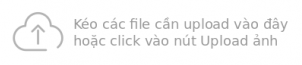
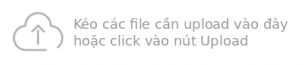
Update style and logic

Changed region(s): [[0.8344, 0.5231, 0.9238, 0.7077]]

diff --git a/src/Tnqsoft/MaterialBundle/Resources/public/js/tnqsoftcore/file-manager.js b/src/Tnqsoft/MaterialBundle/Resources/public/js/tnqsoftcore/file-manager.js
@@ -68,20 +68,13 @@ FileManage.prototype.bindAction = function() {
 
 FileManage.prototype.cropFile = function(item) {
     var _parent = this;
-    let options = {
-        title: 'Cắt tỉa ảnh',
-        imgDefault: '/bundles/tnqsoftmaterial/img/no-picture.png',
-        btnOkText: 'Cắt ảnh',
-        btnCancelText: 'Lưu luôn ảnh',
-        aspectRatio: null
-    };
     let info = JSON.parse(item.data('context'));
     let apiCrop = Routing.generate('api_file_crop', {
         type: item.data('type'),
         path: item.data('path')
         // file: item.data('file')
     });
-    let cropFile = new CropFile(apiCrop, options);
+    let cropFile = new CropFile(apiCrop);
     cropFile.setOnCropSuccess(function(_this, file){
         $('.file-item-display', item).attr('src', file.url + '?rnd=' + getUnixTimestamp());
         $('.file-item-name', item).html(file.name);
@@ -90,7 +83,8 @@ FileManage.prototype.cropFile = function(item) {
         _parent.showInfo(item);
     });
     cropFile.setOnCropError(function(_this, error){
-        console.log(error);
+        let popup = new B3Popup();
+        popup.alertBox('error', error);
     });
     cropFile.showCropModal(info.url, info.width, info.height);
 };
@@ -106,6 +100,7 @@ FileManage.prototype.loadList = function() {
     let _this = this;
     $('.list-file', this.fileManagerBox).empty();
     $('.file-item-info', this.fileManagerBox).hide();
+    $('.icon-loading', this.fileManagerBox).show();
     let listApi = Routing.generate('api_file_list', {
         type: this.type,
         path: this.path,
@@ -115,6 +110,7 @@ FileManage.prototype.loadList = function() {
         .done(function(list) {
             _this.listFiles = list;
             _this.renderListFiles();
+            $('.icon-loading', _this.fileManagerBox).hide();    
         })
         .fail(function(error) {
             let popup = new B3Popup();
@@ -138,7 +134,12 @@ FileManage.prototype.showInfo = function(item) {
     } else {
         isWritable = '<i class="fa fa-times text-danger"></i>';
     }
-    $('.info-display', infoBox).attr('src', info.url + '?rnd=' + getUnixTimestamp());
+    if (info.is_image === true) {
+        $('.info-display', infoBox).attr('src', info.url + '?rnd=' + getUnixTimestamp());
+    } else {
+        $('.info-display', infoBox).attr('src', '/bundles/tnqsoftmaterial/img/file.png');
+    }
+
     $('.info-name span', infoBox).html(info.name);
     $('.info-extension span', infoBox).html(info.extension);
     $('.info-mime span', infoBox).html(info.mime);
@@ -174,7 +175,11 @@ FileManage.prototype.renderListFiles = function(list) {
         for (let i = 0; i < this.listFiles.length; i++) {
             let file = this.listFiles[i];
             let item = $(this.getItemPhotoHtml());
-            $('.file-item-display', item).attr('src', file.url + '?rnd=' + getUnixTimestamp());
+            if (file.is_image === true) {
+                $('.file-item-display', item).attr('src', file.url + '?rnd=' + getUnixTimestamp());
+            } else {
+                $('.btn-edit', item).remove();
+            }
             $('.file-item-name', item).html(file.name);
             item.data('type', this.type);
             item.data('path', this.path);
@@ -202,13 +207,13 @@ FileManage.prototype.renderMain = function() {
     html += '    <div class="modal-content animated flipInY">';
     html += '        <div class="modal-header">';
     html += '            <button type="button" class="close" data-dismiss="modal"><span aria-hidden="true">&times;</span><span class="sr-only">Bỏ qua</span></button>';
-    html += '            <h4 class="modal-title">Quản lý thư viện ảnh</h4>';
+    html += '            <h4 class="modal-title">Quản lý file <i class="fa fa-circle-o-notch fa-spin fa-fw icon-loading"></i></h4>';
     html += '        </div>';
     html += '        <div class="modal-body form-group-box">';
     html += '            <div class="row">';
     html += '               <div class="col-md-10"><div class="row list-file"></div></div>';
     html += '               <div class="col-md-2"><div class="file-item-info">';
-    html += '                   <p><img class="img-responsive1 info-display" src="\/bundles\/tnqsoftmaterial\/img\/no-picture.png" height="120"></p>';
+    html += '                   <p><img class="img-responsive1 info-display" src="\/bundles\/tnqsoftmaterial\/img\/file.png"></p>';
     html += '                   <p class="info-name"><strong>Tên</strong>: <span></span></p>';
     html += '                   <p class="info-extension"><strong>Phần mở rộng</strong>: <span></span></p>';
     html += '                   <p class="info-mime"><strong>Mime</strong>: <span></span></p>';
@@ -225,12 +230,12 @@ FileManage.prototype.renderMain = function() {
     html += '            <div class="row">';
     html += '                <div class="col-xs-6 text-left">';
     html += '                    <button type="button" class="btn btn-success btn-upload">';
-    html += '                        <i class="fa fa-cloud-upload"></i> Upload ảnh';
-    html += '                    </button> <span class="text-muted"> <i class="fa fa-mouse-pointer"></i> Hoặc là kéo thả nhiều file vào danh sách ảnh</span>';
+    html += '                        <i class="fa fa-cloud-upload"></i> Upload file';
+    html += '                    </button> <span class="text-muted"> <i class="fa fa-mouse-pointer"></i> Hoặc là kéo thả nhiều file vào danh sách file</span>';
     html += '                </div>';
     html += '                <div class="col-xs-6">';
     html += '                    <button type="button" class="btn btn-primary btn-ok">';
-    html += '                        <i class="fa fa-check"></i> Chọn ảnh';
+    html += '                        <i class="fa fa-check"></i> Chọn file';
     html += '                    </button>';
     html += '                </div>';
     html += '            </div>';
@@ -251,7 +256,7 @@ FileManage.prototype.getItemPhotoHtml = function() {
     let html = '';
     html += '<div class="col-xs-6 col-sm-3 col-md-4 col-lg-2 file-item">';
     html += '    <div class="thumbnail">';
-    html += '        <img class="img-responsive center-block file-item-display" src="/bundles/tnqsoftmaterial/img/no-picture.png" alt="Photo">';
+    html += '        <img class="img-responsive center-block file-item-display" src="/bundles/tnqsoftmaterial/img/file.png" alt="Photo">';
     html += '        <div class="caption text-center">';
     html += '            <span class="file-item-name">Đang upload file...</span>';
     html += '            <a href="#" class="btn-delete"><i class="fa fa-trash fa-lg"></i></a>';

diff --git a/src/Tnqsoft/MaterialBundle/Resources/public/js/tnqsoftcore/crop-file.js b/src/Tnqsoft/MaterialBundle/Resources/public/js/tnqsoftcore/crop-file.js
@@ -7,14 +7,14 @@ var CropFile = function(api, options) {
     this.api = api;
     this.onCropSuccess = $.noop;
     this.onCropError = $.noop;
-    // {
-    //     title: 'Cắt tỉa ảnh',
-    //     imgDefault: 'http://example.com/no-picture.jpg',
-    //     btnOkText: 'Cắt ảnh và hoàn tất',
-    //     btnCancelText: 'Bỏ qua',
-    //     aspectRatio: 1
-    // }
-    this.options = options;
+    let defaultsOption = {
+        title: 'Cắt tỉa ảnh',
+        imgDefault: '/bundles/tnqsoftmaterial/img/no-picture.png',
+        btnOkText: 'Cắt ảnh',
+        btnCancelText: 'Bỏ qua',
+        aspectRatio: null
+    };
+    this.options = $.extend(defaultsOption, options);
     this.cropImgApi = null;
 
     this.init();
@@ -29,12 +29,10 @@ CropFile.prototype.init = function() {
     html += '<div class="modal-dialog modal-small">';
     html += '    <div class="modal-content animated flipInY">';
     html += '        <div class="modal-header">';
-    html += '            <button type="button" class="close" data-dismiss="modal"><span aria-hidden="true">&times;</span><span class="sr-only">Bỏ qua</span></button>';
+    html += '            <button type="button" class="close" data-dismiss="modal"><span aria-hidden="true">&times;</span><span class="sr-only">' + this.options.btnCancelText + '</span></button>';
     html += '            <h4 class="modal-title">' + this.options.title + '</h4>';
     html += '        </div>';
-    html += '        <div class="modal-body center">';
-    // html += '            <img src="' + this.options.imgDefault + '" id="cropImg" alt="Jcrop Image" width="570"/>';
-    html += '        </div>';
+    html += '        <div class="modal-body center"></div>';
     html += '        <div class="modal-footer">';
     html += '           <div class="row">';
     html += '               <div class="col-xs-6 text-left">';
@@ -49,6 +47,9 @@ CropFile.prototype.init = function() {
     html += '               <div class="col-xs-6">';
     html += '                   <button type="button" class="btn btn-success btn-confirm-crop">';
     html += '                       <i class="fa fa-check"></i>' + this.options.btnOkText;
+    html += '                   </button>';
+    html += '                   <button type="button" class="btn btn-default btn-cancel" data-dismiss="modal">';
+    html += '                       <i class="fa fa-times"></i>' + this.options.btnCancelText;
     html += '                   </button>';
     html += '               </div>';
     html += '           </div>';
@@ -134,7 +135,6 @@ CropFile.prototype.changeRatio = function(ratioType) {
         ratio = null;
         break;
     }
-    console.log(this.cropImgApi);
     this.cropImgApi.setOptions({
       aspectRatio: ratio
     });

diff --git a/src/Tnqsoft/MaterialBundle/Resources/public/js/tnqsoftcore/file-manager-upload.js b/src/Tnqsoft/MaterialBundle/Resources/public/js/tnqsoftcore/file-manager-upload.js
@@ -22,11 +22,9 @@ FileManageUpload.prototype.parent = UploadFile.prototype;
 FileManageUpload.prototype.onUploadAdd = function(_this, e, data) {
     for (var i = 0; i < data.files.length; i++) {
         _this.btnUpload.prop('disabled', true);
-        let uuid = md5(data.files[i].name + '' + data.files[i].lastModified + '' + data.files[i].size);//generateUUID();
-        console.log(uuid);
+        let uuid = md5(data.files[i].name + '' + data.files[i].lastModified + '' + data.files[i].size);
         let item = $(_this.itemHtml);
         item.data('uuid', uuid);
-        //_this.currentItem = uuid;
         item.addClass('state-uploading');
         $('.list-file', _this.fileManagerBox).append(item);
     }
@@ -63,7 +61,11 @@ FileManageUpload.prototype.onUploadDone = function(_this, e, data) {
         let uuid = md5(data.files[i].name + '' + data.files[i].lastModified + '' + data.files[i].size);//generateUUID();
         let file = data.jqXHR.responseJSON;
         let currentItem = $('.file-item', _this.fileManagerBox).filter(function(){ return $(this).data("uuid") == uuid});
-        $('.file-item-display', currentItem).attr('src', file.url);
+        if (file.is_image === true) {
+            $('.file-item-display', currentItem).attr('src', file.url);
+        } else {
+            $('.btn-edit', currentItem).remove();
+        }
         $('.file-item-name', currentItem).html(file.name);
         currentItem.data('uuid', generateUUID());
         currentItem.data('type', _this.fileManagerBox.data('type'));

diff --git a/src/Tnqsoft/MaterialBundle/Resources/public/plugins/summernote-ext-filemanager.js b/src/Tnqsoft/MaterialBundle/Resources/public/plugins/summernote-ext-filemanager.js
@@ -40,7 +40,15 @@
             //       var fileManager = new FileManage($('#fileManagerType').val(), $('#fileManagerPath').val());
             //   }
               fileManager.okCallback = function(file) {
-                  context.invoke('editor.insertImage', file.url, file.name);
+                  if (file.is_image === true) {
+                    context.invoke('editor.insertImage', file.url, file.name);
+                  } else {
+                    context.invoke('createLink', {
+                        text: file.name,
+                        url: window.location.origin + file.url,
+                        isNewWindow: true
+                    });
+                  }
               };
               fileManager.showBox();
           }

diff --git a/src/Tnqsoft/MaterialBundle/Resources/public/css/global.css b/src/Tnqsoft/MaterialBundle/Resources/public/css/global.css
@@ -88,7 +88,10 @@
     display: none;
     overflow: hidden;
 }
-
+#modalFileManager .file-item-info img {
+    width: 100%;
+    max-height: 120px;
+}
 .jcrop-keymgr {
     opacity: 0;
 }

diff --git a/src/Tnqsoft/MaterialBundle/Resources/public/js/tnqsoftcore/global.js b/src/Tnqsoft/MaterialBundle/Resources/public/js/tnqsoftcore/global.js
@@ -1,3 +1,5 @@
+jQuery.migrateMute = false;
+
 /**
  * Created by nntuan on 9/11/2016.
  */

diff --git a/src/Tnqsoft/MaterialBundle/Service/Model/FileItem.php b/src/Tnqsoft/MaterialBundle/Service/Model/FileItem.php
@@ -58,6 +58,7 @@ class FileItem
      * @var boolean
      *
      * @Type("boolean")
+     * @SerializedName("is_readable")
      * @Expose
      */
     private $isReadable;
@@ -66,6 +67,16 @@ class FileItem
      * @var boolean
      *
      * @Type("boolean")
+     * @SerializedName("is_image")
+     * @Expose
+     */
+    private $isImage;
+
+    /**
+     * @var boolean
+     *
+     * @Type("boolean")
+     * @SerializedName("is_writable")
      * @Expose
      */
     private $isWritable;
@@ -134,7 +145,8 @@ class FileItem
         $this->baseDir = $pathParts['dirname'];
         $this->extension = $pathParts['extension'];
         $this->size = filesize($this->path);
-        if ($this->isImage($this->path)) {
+        $this->isImage = $this->checkIsImage($this->path);
+        if ($this->isImage) {
             list($this->width, $this->height) = getimagesize($this->path);
         }
         $this->mime = mime_content_type($this->path);
@@ -145,12 +157,12 @@ class FileItem
     }
 
     /**
-     * Is Image
+     * Check Is Image
      *
      * @param  string  $filename
      * @return boolean
      */
-    protected function isImage($filename)
+    protected function checkIsImage($filename)
     {
         $validFormats = array(IMAGETYPE_JPEG, IMAGETYPE_PNG, IMAGETYPE_GIF, IMAGETYPE_BMP);
         $fileFormat = exif_imagetype($filename);
@@ -470,4 +482,28 @@ class FileItem
         return $this;
     }
 
+
+    /**
+     * Get the value of Is Image
+     *
+     * @return boolean
+     */
+    public function getIsImage()
+    {
+        return $this->isImage;
+    }
+
+    /**
+     * Set the value of Is Image
+     *
+     * @param boolean isImage
+     *
+     * @return self
+     */
+    public function setIsImage($isImage)
+    {
+        $this->isImage = $isImage;
+
+        return $this;
+    }
 }

diff --git a/src/Tnqsoft/MaterialBundle/Controller/FileController.php b/src/Tnqsoft/MaterialBundle/Controller/FileController.php
@@ -27,8 +27,8 @@ class FileController extends Controller
     {
         //* @Security("has_role('ROLE_USER')")
         $path = $request->query->get('path');
-        $dir = $this->getParameter($type.'_dir').(($path !== null)?$path.DIRECTORY_SEPARATOR:'');
-        $basePath = $this->getParameter($type.'_path').(($path !== null)?$path.'/':'');
+        $dir = $this->getParameter($type.'_dir').((!empty($path))?$path.DIRECTORY_SEPARATOR:'');
+        $basePath = $this->getParameter($type.'_path').((!empty($path))?$path.'/':'');
 
         $files = array();
         if (!is_dir($dir)) {
@@ -59,7 +59,7 @@ class FileController extends Controller
         if ($request->isXmlHttpRequest() && $request->isMethod('DELETE')) {
             $path = $request->query->get('path');
             $fileName = $request->query->get('file');
-            $dir = $this->getParameter($type.'_dir').(($path !== null)?$path.DIRECTORY_SEPARATOR:'');
+            $dir = $this->getParameter($type.'_dir').((!empty($path))?$path.DIRECTORY_SEPARATOR:'');
 
             if (!is_dir($dir) || !file_exists($dir.$fileName) ) {
                 return $this->json(array('error' => 'Không tồn tại file cần xóa'), Response::HTTP_NOT_FOUND);
@@ -107,6 +107,7 @@ class FileController extends Controller
             }
 
             $uploadProcess = $this->get('tnqsoft_material.process.upload');
+            $uploadProcess->setAllowList(array('image/*', 'application/pdf'));
             $uploadProcess->setBasePath($request->getSchemeAndHttpHost());
             try {
                 $fileItem = $uploadProcess->upload($baseDir, $basePath);

diff --git a/src/Tnqsoft/MaterialBundle/Validator/FileValidator.php b/src/Tnqsoft/MaterialBundle/Validator/FileValidator.php
@@ -19,16 +19,16 @@ class FileValidator extends BaseValidator
             'file' => new Constraints\Required(array(
                 new Constraints\NotBlank(),
                 new Constraints\NotNull(),
-                new Constraints\Image(array(
-                    // 'minWidth' => 200,
-                    // 'minHeight' => 200,
-                    // 'maxWidth' => 800,
-                    // 'maxHeight' => 800,
-                    //'allowSquare' => true,
-                    //'allowLandscape' => false,
-                    //'allowPortrait' => false,
-                    'detectCorrupted' => true,
-                )),
+                // new Constraints\Image(array(
+                //     // 'minWidth' => 200,
+                //     // 'minHeight' => 200,
+                //     // 'maxWidth' => 800,
+                //     // 'maxHeight' => 800,
+                //     //'allowSquare' => true,
+                //     //'allowLandscape' => false,
+                //     //'allowPortrait' => false,
+                //     'detectCorrupted' => true,
+                // )),
             )),
         );
 
